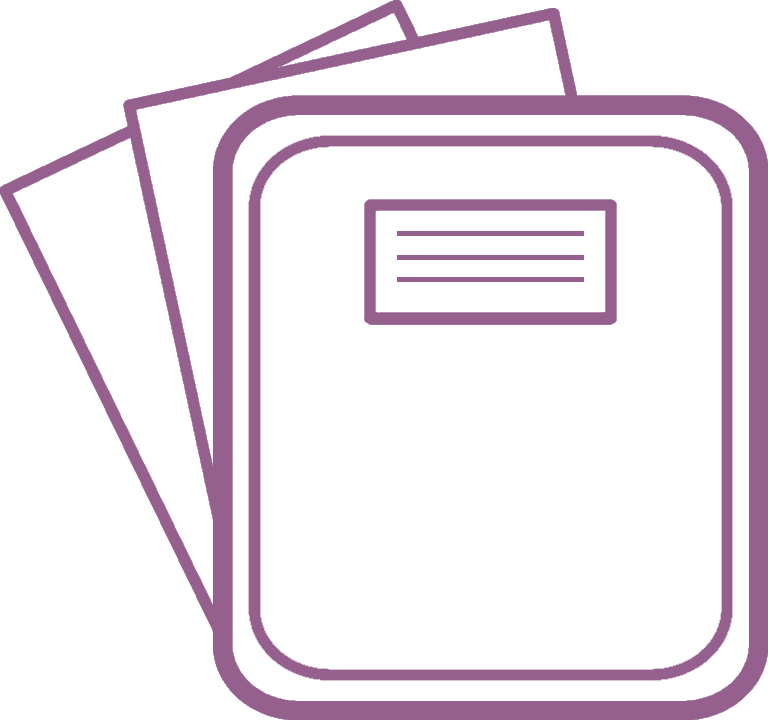
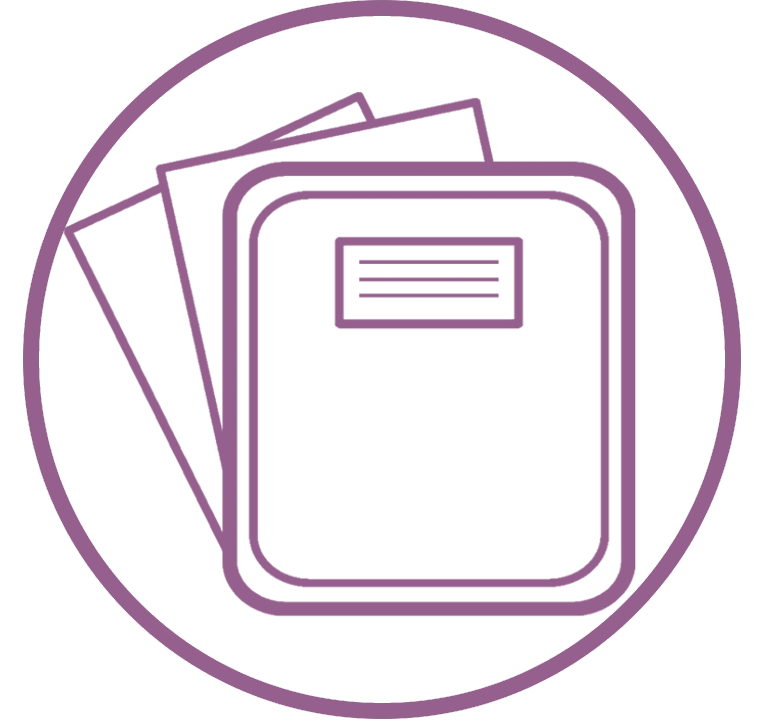
Endre ikoner hjemskjerm

Changed region(s): [[0.0, 0.0, 1.0, 1.0]]

diff --git a/prototype/ancep/app/page.tsx b/prototype/ancep/app/page.tsx
@@ -79,17 +79,18 @@ export default function Home() {
 
         <a
           href="/teacher"
-          className="card w-80 shadow-md group rounded-lg border border-transparent px-5 py-4 transition-colors hover:border-white"
+          className="flex gap-3 items-center card w-80 shadow-md group rounded-lg border border-transparent px-5 py-4 transition-colors hover:border-white"
           rel="noopener noreferrer">
-          <h2 className={"mb-3 text-2xl font-semibold"}>
-            Undervisnings veiledning{' '}
-            <span className="inline-block transition-transform group-hover:translate-x-1 motion-reduce:transform-none">
-              -&gt;
-            </span>
-          </h2>
-          <p className={"m-0 max-w-[30ch] text-sm"}>
-            Veiledning for undervisere og lærere.
-          </p>
+            <img
+              src="/images/sider/veiledning.png"
+              width="50px"
+              height="50px"
+              style={{height: '50px'}}
+              alt="Undervisnings veiledning bilde"/>
+          <div className="text-left pl-2">
+              <h2 className={"mb-1 text-2xl font-semibold"}>Undervisnings veiledning</h2>
+              <p className={"m-0 max-w-[30ch] text-sm"}>Veiledning for undervisere og lærere.</p>
+            </div>
         </a>
       </div>
     </main>
